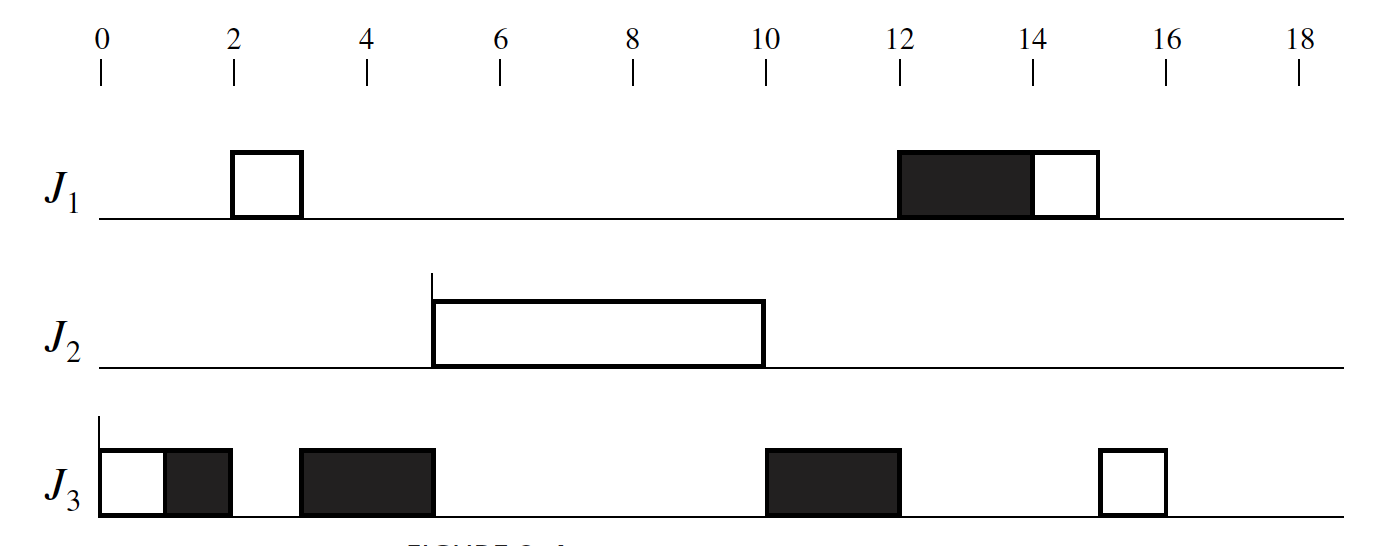
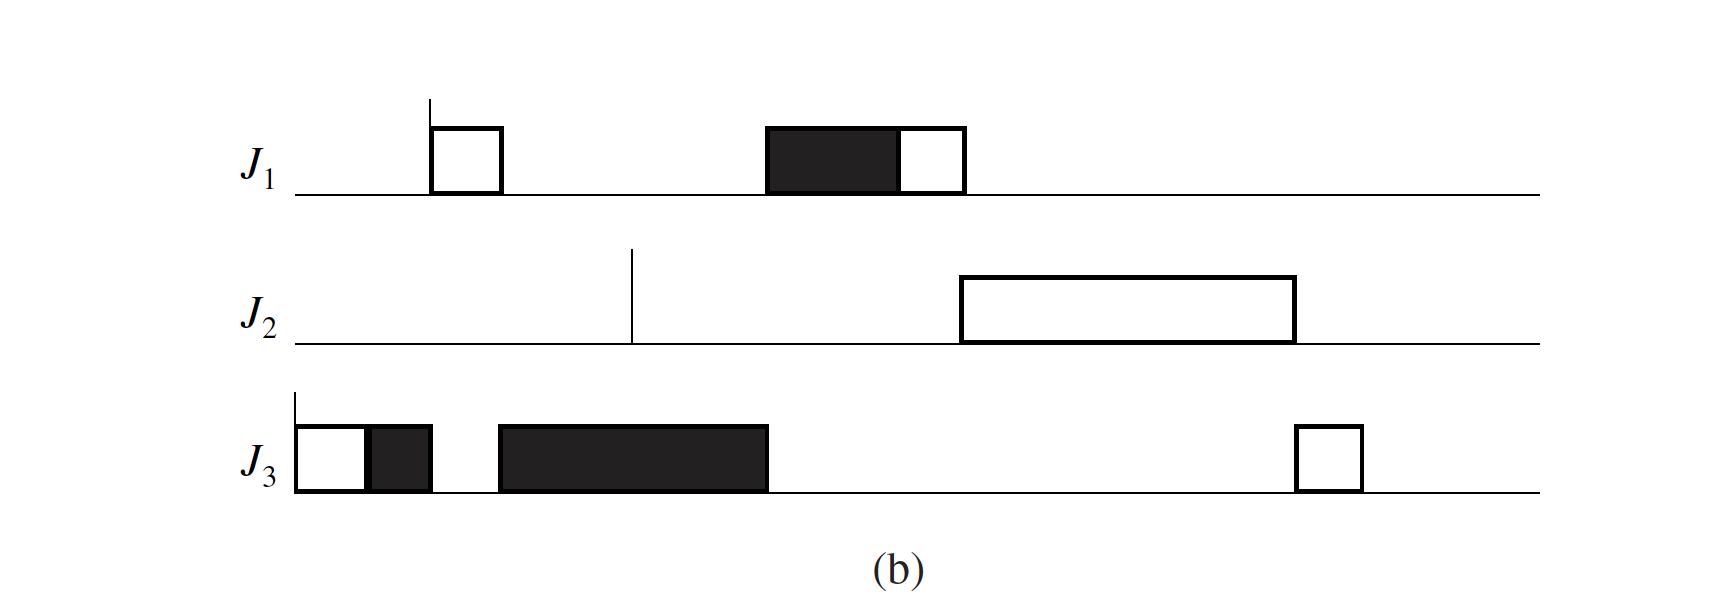
A-2: Q2 Implentation Completed. Readme Updated with results.

diff --git a/code/FreeRTOSPosix/Project/main.c b/code/FreeRTOSPosix/Project/main.c
@@ -281,10 +281,8 @@ void init(TaskData* pTaskData,
 int main (void)
 {
     printf("\n");
-    printf("Workflow Summary:\n");
-    printf("-----------------\n");
-    printf("- TBD\n");
-    printf("-----------------\n");
+    printf("Priority Inheritance Protocol Using \"Semaphore Mutex\" in FreeRTOS:\n");
+    printf("------------------------------------------------------------------\n");
     fflush(stdout);
 
     TaskData sTaskData1, sTaskData2, sTaskData3;

diff --git a/code/assignment_2/Q2/main.c b/code/assignment_2/Q2/main.c
@@ -281,10 +281,8 @@ void init(TaskData* pTaskData,
 int main (void)
 {
     printf("\n");
-    printf("Workflow Summary:\n");
-    printf("-----------------\n");
-    printf("- TBD\n");
-    printf("-----------------\n");
+    printf("Priority Inheritance Protocol Using \"Semaphore Mutex\" in FreeRTOS:\n");
+    printf("------------------------------------------------------------------\n");
     fflush(stdout);
 
     TaskData sTaskData1, sTaskData2, sTaskData3;

diff --git a/code/assignment_2/README.md b/code/assignment_2/README.md
@@ -83,3 +83,82 @@ FreeRTOSPosix$
 <p align="center">
   <img src="./images/a2q2.png" />
 </p>
+
+#### Solution Approach
+
+- The Taskset contains of 3 Tasks {Task1, Task2, Task 3}.
+- The priorities of the tasks are P1 > P2 > P3 {P1=3, P2=2, P3=1}.
+- The release times of the Tasks are {T1=2, T2=5, T3=0}.
+- Task 1 and Task 3 are having critical sections of [R;2] & [R;5] respectively.
+- If a Task has acquired a mutex lock on the shared resource, then when another high priority task try to acquire the lock on the resource, "Priority Inheritance" occurs. The Task holding the mutex (Task 3) for the resource will be temporarily inherit the priority of the higher priority task (Task 1) and execute. Once the resource utilization is complete the Task 3 will release the mutex lock on the resource and the lock is immediately acquired by the higher priority task (Task 1).
+ - In the current implementation I have used Semaphore Mutex locks to acquire the shared resource.
+ - Also the log messages are meticulously designed to display the whole scheduling flow with Priority Inheritance.
+ - At t=3 one can clearly see the Inheritance of priority by the Task 3 (P3=1 -> P3=3).
+ - At t=7 again the priority of Task 3 changes back to 1 (P3=3 -> P3=1).
+
+
+#### Compilation Run
+ ```
+ FreeRTOSPosix$ make clean; make
+ --------------
+ CLEAN COMPLETE
+ --------------
+ >> Compiling croutine.c
+ >> Compiling event_groups.c
+ >> Compiling list.c
+ >> Compiling queue.c
+ >> Compiling tasks.c
+ >> Compiling timers.c
+ >> Compiling heap_3.c
+ >> Compiling port.c
+ >> Compiling main.c
+ >> Linking FreeRTOSPosix...
+ -------------------------
+ BUILD COMPLETE: FreeRTOSPosix
+ -------------------------
+ FreeRTOSPosix$
+ ```
+
+
+#### Execution Run
+ ```
+ FreeRTOSPosix$ ./FreeRTOSPosix
+
+ Priority Inheritance Protocol Using "Semaphore Mutex" in FreeRTOS:
+ ------------------------------------------------------------------
+ Running as PID: 11059
+ Timer Resolution for Run TimeStats is 100 ticks per second.
+ [Task 3] : [t=00] : [P1=3 P2=2 P3=1] Release Time (0)
+ [Task 3] : [t=01] : [P1=3 P2=2 P3=1]
+ [Task 3] : [t=01] : Resource Requested
+ [Task 3] : [t=01] : Resource acquired : Set Resource Value in Task 3 : 1003
+ [Task 1] : [t=02] : [P1=3 P2=2 P3=1] Release Time (2)
+ [Task 1] : [t=03] : [P1=3 P2=2 P3=1]
+ [Task 1] : [t=03] : Resource Requested
+ [Task 3] : [t=03] : [P1=3 P2=2 P3=3]
+ [Task 3] : [t=04] : [P1=3 P2=2 P3=3]
+ [Task 3] : [t=05] : [P1=3 P2=2 P3=3]
+ [Task 3] : [t=06] : [P1=3 P2=2 P3=3]
+ [Task 3] : [t=07] : [P1=3 P2=2 P3=3]
+ [Task 3] : [t=07] : Resource 1003 released
+ [Task 1] : [t=07] : Resource acquired : Set Resource Value in Task 1 : 1001
+ [Task 1] : [t=07] : [P1=3 P2=2 P3=1]
+ [Task 1] : [t=08] : [P1=3 P2=2 P3=1]
+ [Task 1] : [t=09] : [P1=3 P2=2 P3=1]
+ [Task 1] : [t=09] : Resource 1001 released
+ [Task 1] : [t=10] : [P1=3 P2=2 P3=1]
+ [Task 1] : [t=10] : Execution ended.
+ [Task 2] : [t=10] : [P1=3 P2=2 P3=1] Release Time (5)
+ [Task 2] : [t=11] : [P1=3 P2=2 P3=1]
+ [Task 2] : [t=12] : [P1=3 P2=2 P3=1]
+ [Task 2] : [t=13] : [P1=3 P2=2 P3=1]
+ [Task 2] : [t=14] : [P1=3 P2=2 P3=1]
+ [Task 2] : [t=15] : [P1=3 P2=2 P3=1]
+ [Task 2] : [t=15] : Execution ended.
+ [Task 3] : [t=15] : [P1=3 P2=2 P3=1]
+ [Task 3] : [t=16] : [P1=3 P2=2 P3=1]
+ [Task 3] : [t=16] : Execution ended.
+ ^C
+ FreeRTOSPosix$
+
+ ```
